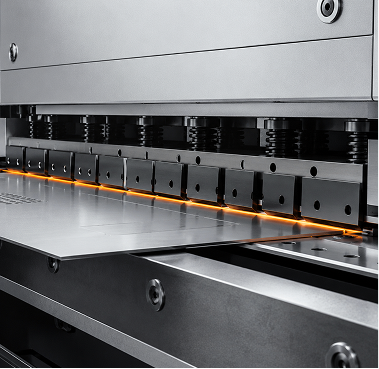
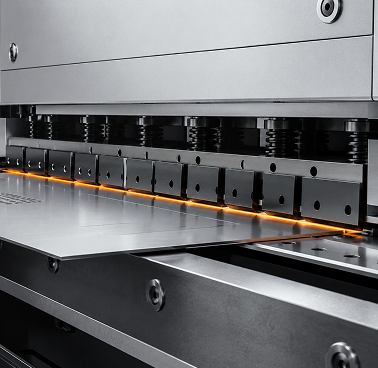
build fix

diff --git a/src/app/(frontend)/styles.css b/src/app/(frontend)/styles.css
@@ -6891,17 +6891,13 @@ button.machining-machine:focus-visible {
   overflow: hidden;
 }
 
+/* Every photograph, machine or process, fills the frame to its edges -- no
+   inset and no letterbox of panel grey around it. */
 .machining-media-image {
   display: block;
   width: 100%;
   height: 100%;
   object-fit: cover;
-}
-
-/* A machine is shown whole, on the panel's own ground; the process fills. */
-.machining-media-frame[data-kind='machine'] .machining-media-image {
-  padding: clamp(0.75rem, 2vw, 1.5rem);
-  object-fit: contain;
 }
 
 /* Split control bar under the photograph, as wide as the image. */
